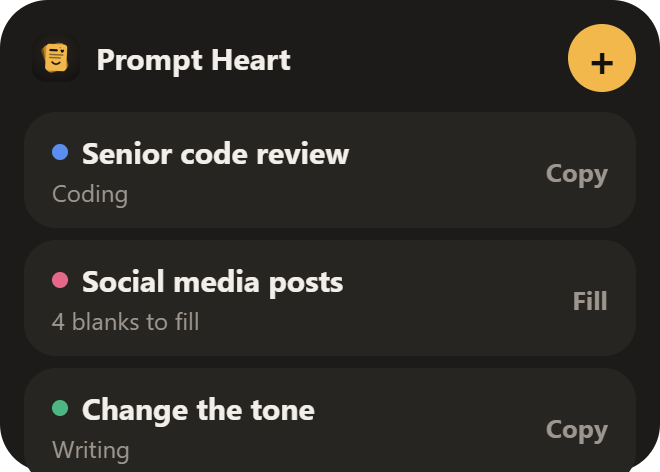
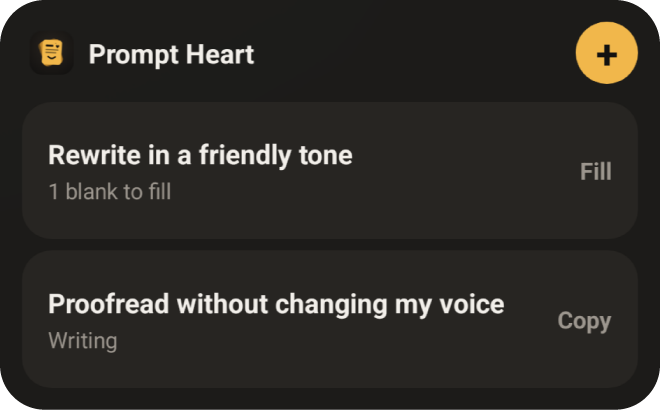
1.8.3: App lock skips short picker trips, no one-letter versions, new widget preview
- App lock no longer asks again after the photo picker, file picker or share sheet,
  as long as the trip was under 2 minutes (lock/trips.ts).
- A prompt created in the editor no longer saves its first letter as an earlier version.
- The widget picker's preview is a real capture of the current widget, without coloured dots.

diff --git a/src/lib/backup.ts b/src/lib/backup.ts
@@ -1,3 +1,4 @@
+
 import * as DocumentPicker from 'expo-document-picker';
 import { File, Paths } from 'expo-file-system';
 import * as Sharing from 'expo-sharing';
@@ -8,6 +9,7 @@ import { APP_NAME, APP_SLUG } from '@/lib/app';
 import { imageBase64, imagesSupported, writeImageBase64 } from '@/lib/images';
 import { parseImport, toCsv } from '@/lib/importFiles';
 import type { ParsedFile } from '@/lib/importFiles';
+import { stepOut } from '@/lock/trips';
 import type { Folder, Prompt } from '@/store/types';
 
 const FORMAT = 'promptheart-backup';
@@ -39,7 +41,7 @@ async function share(name: string, contents: string, mimeType: string) {
   if (file.exists) file.delete();
   file.create();
   await file.write(contents);
-  await Sharing.shareAsync(file.uri, { mimeType, dialogTitle: `Save ${APP_NAME} backup` });
+  await stepOut(() => Sharing.shareAsync(file.uri, { mimeType, dialogTitle: `Save ${APP_NAME} backup` }));
 }
 
 /** Exports live prompts and categories (with images) as one JSON file via the share sheet. */
@@ -86,11 +88,13 @@ const readText = async (uri: string) => (Platform.OS === 'web' ? (await fetch(ur
  * the prompts in them. Returns null if cancelled; files that can't be read are listed in `errors`.
  */
 export async function pickImportFiles(): Promise<{ files: ParsedFile[]; errors: string[] } | null> {
-  const res = await DocumentPicker.getDocumentAsync({
-    type: ['text/csv', 'text/comma-separated-values', 'application/json', 'text/markdown', 'text/plain', 'text/tab-separated-values', '*/*'],
-    copyToCacheDirectory: true,
-    multiple: true,
-  });
+  const res = await stepOut(() =>
+    DocumentPicker.getDocumentAsync({
+      type: ['text/csv', 'text/comma-separated-values', 'application/json', 'text/markdown', 'text/plain', 'text/tab-separated-values', '*/*'],
+      copyToCacheDirectory: true,
+      multiple: true,
+    }),
+  );
   if (res.canceled || !res.assets?.length) return null;
   const files: ParsedFile[] = [];
   const errors: string[] = [];
@@ -106,7 +110,7 @@ export async function pickImportFiles(): Promise<{ files: ParsedFile[]; errors: 
 
 /** Lets the user pick a backup file; returns null if cancelled. Throws on files that aren't backups. */
 export async function pickBackup(): Promise<Backup | null> {
-  const res = await DocumentPicker.getDocumentAsync({ type: ['application/json', 'text/plain', '*/*'], copyToCacheDirectory: true });
+  const res = await stepOut(() => DocumentPicker.getDocumentAsync({ type: ['application/json', 'text/plain', '*/*'], copyToCacheDirectory: true }));
   if (res.canceled || !res.assets?.[0]) return null;
   const asset = res.assets[0];
   const text = Platform.OS === 'web' ? await (await fetch(asset.uri)).text() : await new File(asset.uri).text();

diff --git a/src/lock/trips.ts b/src/lock/trips.ts
@@ -1,0 +1,32 @@
+import { AppState } from 'react-native';
+
+// The photo picker, file picker and share sheet are the phone's own screens, opened over the app for a moment.
+// Android counts them as leaving the app, so with App lock set to "Immediately" every photo or backup asked for
+// the phone's lock again on the way back. A short trip to one of them doesn't count as leaving; a long one
+// (someone who walked away from the picker, or went on into the app they shared to) still locks as usual.
+const TRIP_MAX_MS = 2 * 60 * 1000;
+// Coming back to the app and the picker's answer can arrive in either order; this covers the gap.
+const SETTLE_MS = 1500;
+
+let tripAt: number | null = null;
+
+/** Runs `open` (a picker or share sheet) as a short trip out of the app, so App lock doesn't ask again after it. */
+export async function stepOut<T>(open: () => Promise<T>): Promise<T> {
+  const mine = Date.now();
+  tripAt = mine;
+  try {
+    return await open();
+  } finally {
+    // Still away (in the share sheet, say): the return to the app settles it. Otherwise it's over.
+    setTimeout(() => {
+      if (tripAt === mine && AppState.currentState === 'active') tripAt = null;
+    }, SETTLE_MS);
+  }
+}
+
+/** On coming back to the app: whether it was from a short trip. Each trip counts once. */
+export function backFromTrip(now: number): boolean {
+  const short = tripAt !== null && now - tripAt < TRIP_MAX_MS;
+  tripAt = null;
+  return short;
+}

diff --git a/src/app/prompt/[id].tsx b/src/app/prompt/[id].tsx
@@ -60,6 +60,8 @@ function PromptEditor() {
   const history = useHistory();
   // One version is saved per editing session, right before the first change to the text.
   const snapped = useRef(false);
+  // A prompt made in this editor has no earlier text to keep, so its first letters aren't saved as a version.
+  const createdHere = useRef(false);
   const aiApps = useEnabledAiApps();
   const folders = useVisibleFolders();
 
@@ -128,7 +130,11 @@ function PromptEditor() {
     const next = { ...draft, ...patch };
     setDraft(next);
     if (id) store.updatePrompt(id, patch);
-    else if (next.title.trim() || next.body.trim()) setId(store.createPrompt(next).id);
+    else if (next.title.trim() || next.body.trim()) {
+      createdHere.current = true;
+      snapped.current = true;
+      setId(store.createPrompt(next).id);
+    }
   };
 
   // Undo steps: a word of typing (with the spaces after it), a paste, or one format button press.
@@ -219,7 +225,9 @@ function PromptEditor() {
         undo.reset({ title: p.title, body: p.body });
         setUndoable({ canUndo: false, canRedo: false });
       }
-      snapped.current = false;
+      // Getting the new prompt's id runs this too; that isn't a new editing session.
+      if (createdHere.current) createdHere.current = false;
+      else snapped.current = false;
     }, [id, getSnapshot, undo]),
   );
 

diff --git a/src/lib/useCopyPrompt.tsx b/src/lib/useCopyPrompt.tsx
@@ -15,6 +15,7 @@ import { readWithRetries } from '@/lib/readRetry';
 import { BLANKS_STORAGE_KEY } from '@/lib/storageKeys';
 import { extractDefaults, extractVariables } from '@/lib/templates';
 import { LIBRARY_ID_PREFIX } from '@/library/prompts';
+import { stepOut } from '@/lock/trips';
 import { useActivity } from '@/profile/ActivityProvider';
 import { useSettings } from '@/settings/SettingsProvider';
 import { usePromptStore } from '@/store/PromptStore';
@@ -142,7 +143,7 @@ export function CopyPromptProvider({ children }: { children: ReactNode }) {
   // The same text Copy gives; the title goes along as the subject, for apps like email that use one.
   const shareText = useCallback(
     (prompt: Prompt, text: string) => {
-      Share.share({ message: text, ...(prompt.title ? { title: prompt.title } : {}) }, { dialogTitle: 'Share prompt' }).catch((e: unknown) => {
+      stepOut(() => Share.share({ message: text, ...(prompt.title ? { title: prompt.title } : {}) }, { dialogTitle: 'Share prompt' })).catch((e: unknown) => {
         // Closing the browser's share box isn't a failure.
         if ((e as { name?: string } | null)?.name !== 'AbortError') toast("Couldn't share this prompt");
       });

diff --git a/src/lib/images.ts b/src/lib/images.ts
@@ -5,6 +5,7 @@ import * as ImagePicker from 'expo-image-picker';
 import { Platform } from 'react-native';
 
 import { newId } from '@/lib/id';
+import { stepOut } from '@/lock/trips';
 
 // Attachments are stored on the device as <id>.jpg in the app's documents folder,
 // and in the private "prompt-images" bucket as <user id>/<id>.jpg.
@@ -52,12 +53,14 @@ export async function saveImage(sourceUri: string): Promise<string> {
 
 /** Opens the photo library; returns ids of the saved copies (empty if cancelled). */
 export async function pickImages(limit = 6): Promise<string[]> {
-  const result = await ImagePicker.launchImageLibraryAsync({
-    mediaTypes: ['images'],
-    allowsMultipleSelection: true,
-    selectionLimit: limit,
-    quality: 1,
-  });
+  const result = await stepOut(() =>
+    ImagePicker.launchImageLibraryAsync({
+      mediaTypes: ['images'],
+      allowsMultipleSelection: true,
+      selectionLimit: limit,
+      quality: 1,
+    }),
+  );
   if (result.canceled || !result.assets) return [];
   const ids: string[] = [];
   for (const asset of result.assets) ids.push(await saveImage(asset.uri));

diff --git a/src/profile/ProfileProvider.tsx b/src/profile/ProfileProvider.tsx
@@ -7,6 +7,7 @@ import type { ReactNode } from 'react';
 
 import { IMAGE_BUCKET, imagesSupported } from '@/lib/images';
 import { readWithRetries } from '@/lib/readRetry';
+import { stepOut } from '@/lock/trips';
 import { useSync } from '@/sync/SyncProvider';
 import { supabase } from '@/sync/supabase';
 
@@ -164,7 +165,7 @@ export function ProfileProvider({ children }: { children: ReactNode }) {
   );
 
   const pickAvatar = useCallback(async () => {
-    const result = await ImagePicker.launchImageLibraryAsync({ mediaTypes: ['images'], allowsEditing: true, aspect: [1, 1], quality: 1 });
+    const result = await stepOut(() => ImagePicker.launchImageLibraryAsync({ mediaTypes: ['images'], allowsEditing: true, aspect: [1, 1], quality: 1 }));
     if (result.canceled || !result.assets?.[0]) return false;
     const ctx = ImageManipulator.manipulate(result.assets[0].uri).resize({ width: AVATAR_SIZE, height: AVATAR_SIZE });
     const saved = await (await ctx.renderAsync()).saveAsync({ format: SaveFormat.JPEG, compress: 0.85 });

diff --git a/src/lock/AppLockProvider.tsx b/src/lock/AppLockProvider.tsx
@@ -12,6 +12,7 @@ import { AppPrivacy } from '../../modules/app-privacy';
 import { authenticate, lockSupport } from './authenticate';
 import type { AuthResult } from './authenticate';
 import { shouldLockOnReturn } from './lockTiming';
+import { backFromTrip } from './trips';
 
 type AppLockContext = {
   /** Asks for fingerprint, face or the phone's screen lock (e.g. before turning App lock on or off). */
@@ -67,7 +68,8 @@ export function AppLockProvider({ children }: { children: ReactNode }) {
         backgroundedAt.current = Date.now();
       } else if (state === 'active') {
         AppPrivacy?.setHiddenInRecents(true); // the activity may not have existed at first launch
-        if (shouldLockOnReturn(settings.lockAfter, backgroundedAt.current, Date.now())) setUnlocked(false);
+        const now = Date.now();
+        if (!backFromTrip(now) && shouldLockOnReturn(settings.lockAfter, backgroundedAt.current, now)) setUnlocked(false);
         backgroundedAt.current = null;
       }
     });

diff --git a/src/lib/app.ts b/src/lib/app.ts
@@ -32,6 +32,8 @@ export const WHATS_NEW = {
   id: '1.8.3',
   items: [
     'A smaller, leaner app: version 1.8.3 is optimised when it’s built, so it uses less memory',
+    'App lock no longer asks again when you come back from picking a photo or file, or from sharing',
+    'A new prompt no longer keeps its first letter as an “earlier version” in its history',
     'Copying a prompt no longer starts a sync each time; copy counts go along with the next one',
     'Opens smoothly, with no black flash or dark strip on the way in',
     'A calmer look: the app icon and name up top, and simpler cards, lists and menus',
